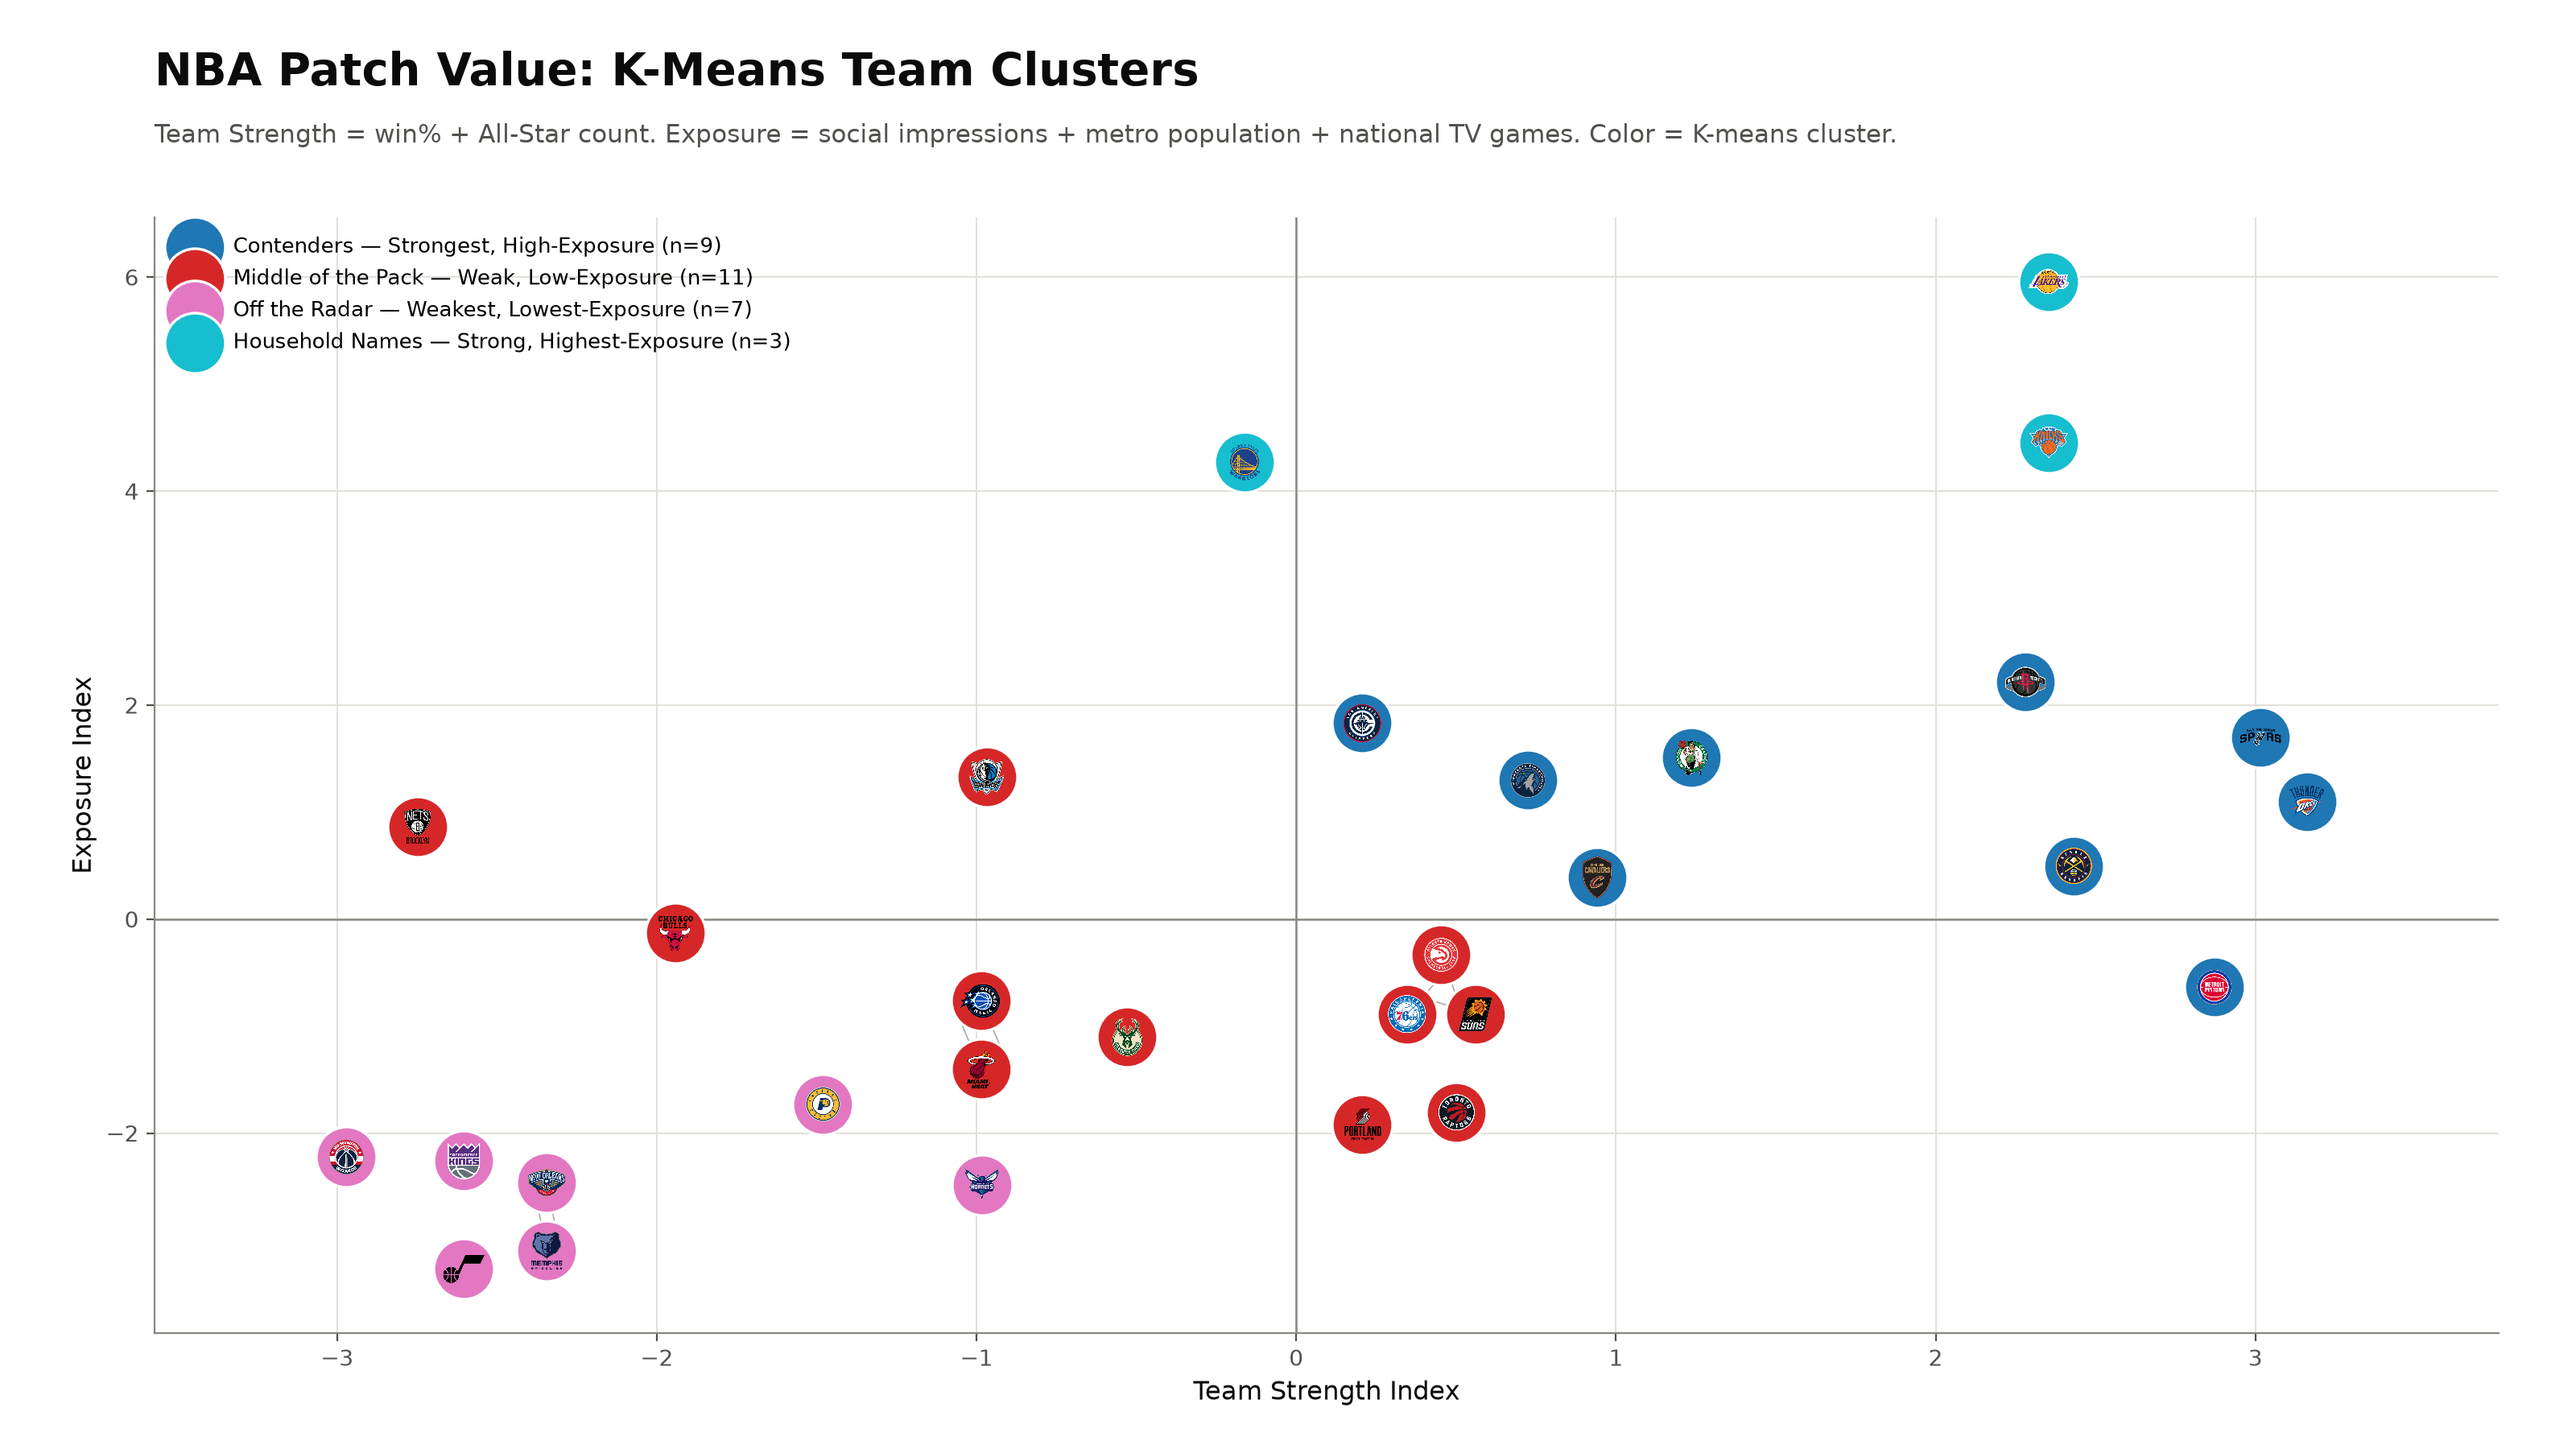
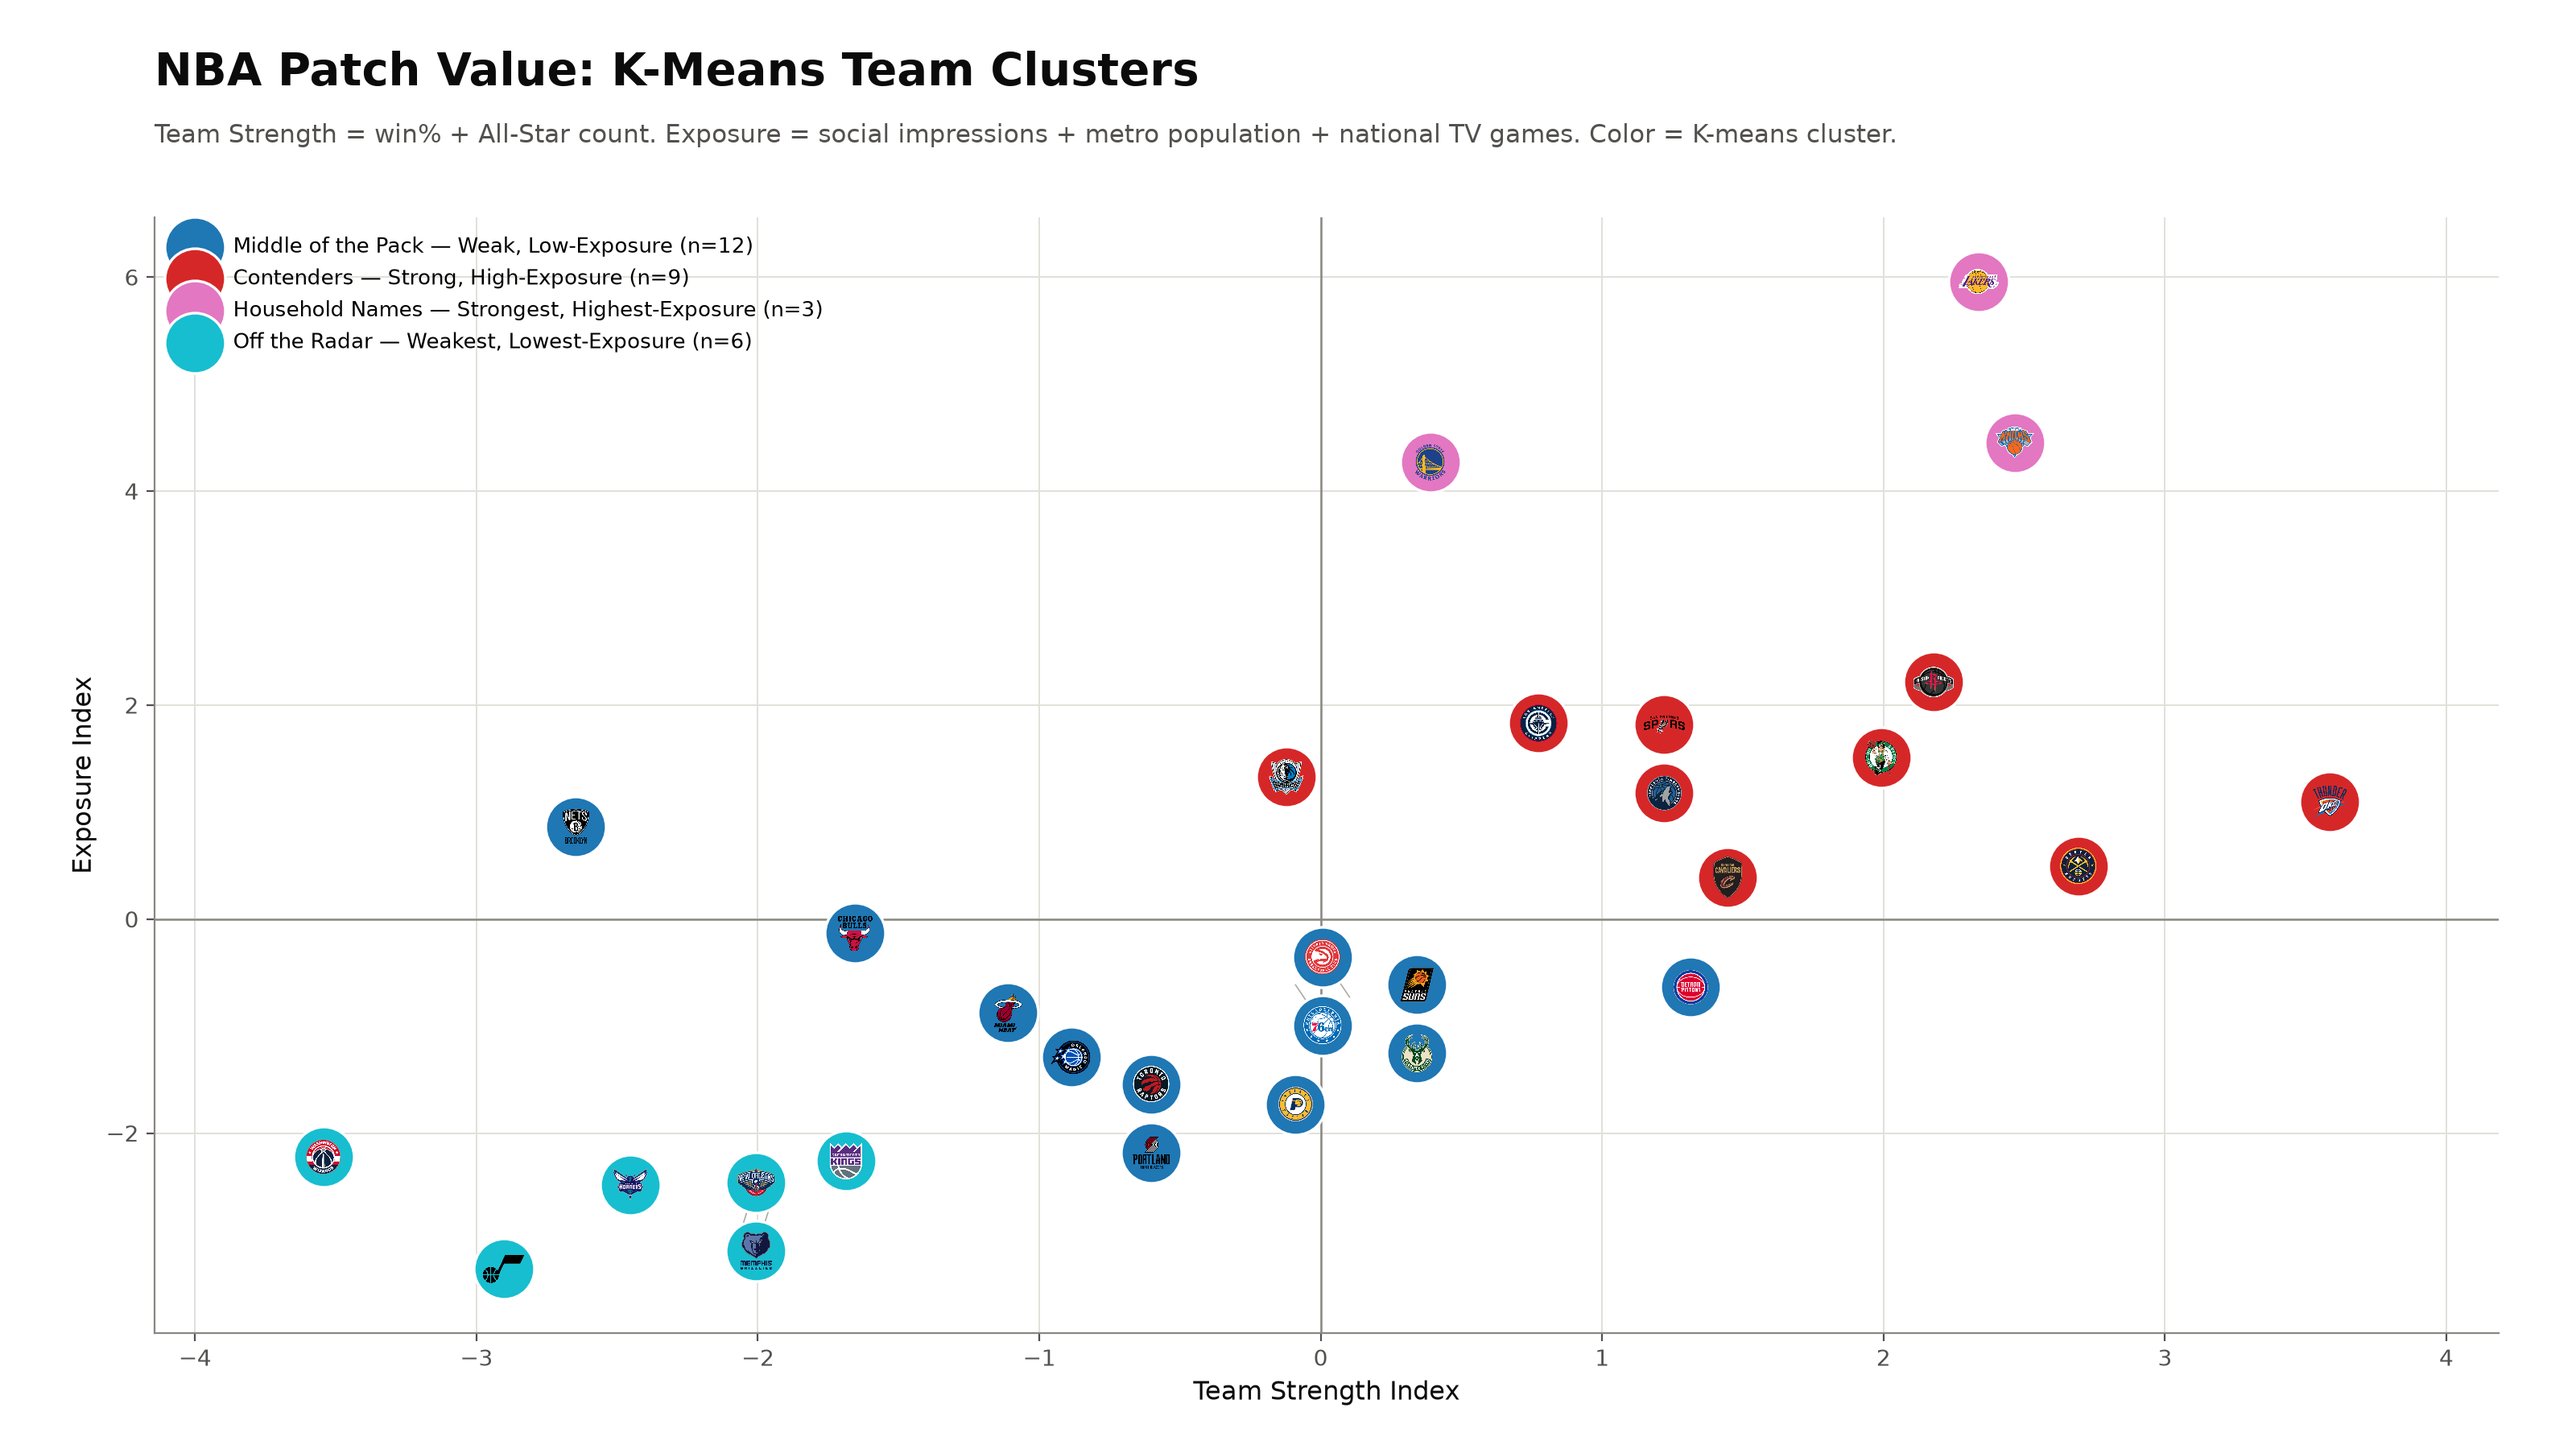
Switch Team Strength to 3-season average win%
win_pct now averages 2023-24, 2024-25, and 2025-26 instead of using the
single 2025-26 season. The two prior seasons' win-loss records are
transcribed from the attached NBA.com Conference Standings pages and
stored as explicit (W, L) dicts; the 3-year average is computed and
printed in a new Step 0 section for auditability, then overwrites
df["win_pct"] before the rest of the pipeline runs unchanged.

Notable cluster membership changes from this alone: Detroit Pistons
dropped out of the high-strength group (strong 2025-26 record, but weak
2023-24/2024-25 drag the average down to ~0.48), while Dallas Mavericks
moved into it (weaker 2025-26 record offset by two strong prior seasons).

Claude-Session: https://claude.ai/code/session_011dmqRCX3meF8tbZkeR883H

diff --git a/jersey_patch_model/nba_kmeans_metro_pop.py b/jersey_patch_model/nba_kmeans_metro_pop.py
@@ -1,8 +1,10 @@
 """
 NBA jersey patch valuation - K-means clustering v2: metro population swapped
-in for total followers in the Exposure composite.
+in for total followers in the Exposure composite, and win_pct now averaged
+over the last 3 seasons (2023-24, 2024-25, 2025-26) instead of a single
+season.
 
-Team Strength = z(win_pct) + z(all_star_count)
+Team Strength = z(win_pct_3yr_avg) + z(all_star_count)
 Exposure      = z(impressions_millions) + z(metro_pop_millions) + z(national_tv_games)
 """
 
@@ -111,6 +113,39 @@ data = {
     "Washington Wizards":     (0.207, 0, 208,  2,  6.465724),
 }
 
+# ---------------------------------------------------------------------------
+# 3-season win% averaging. win_pct in `data` above is the single-season
+# 2025-26 figure already used in this project; 2023-24 and 2024-25 win-loss
+# records are transcribed from the attached NBA.com Conference Standings
+# pages. All three are averaged below to replace the single-season figure
+# as the Team Strength input, per request.
+# ---------------------------------------------------------------------------
+WIN_LOSS_2023_24 = {
+    "Boston Celtics": (64, 18), "New York Knicks": (50, 32), "Milwaukee Bucks": (49, 33),
+    "Cleveland Cavaliers": (48, 34), "Orlando Magic": (47, 35), "Indiana Pacers": (47, 35),
+    "Philadelphia 76ers": (47, 35), "Miami Heat": (46, 36), "Chicago Bulls": (39, 43),
+    "Atlanta Hawks": (36, 46), "Brooklyn Nets": (32, 50), "Toronto Raptors": (25, 57),
+    "Charlotte Hornets": (21, 61), "Washington Wizards": (15, 67), "Detroit Pistons": (14, 68),
+    "OKC Thunder": (57, 25), "Denver Nuggets": (57, 25), "Minnesota Timberwolves": (56, 26),
+    "LA Clippers": (51, 31), "Dallas Mavericks": (50, 32), "Phoenix Suns": (49, 33),
+    "New Orleans Pelicans": (49, 33), "LA Lakers": (47, 35), "Sacramento Kings": (46, 36),
+    "Golden State Warriors": (46, 36), "Houston Rockets": (41, 41), "Utah Jazz": (31, 51),
+    "Memphis Grizzlies": (27, 55), "San Antonio Spurs": (22, 60), "Portland Trail Blazers": (21, 61),
+}
+WIN_LOSS_2024_25 = {
+    "Cleveland Cavaliers": (64, 18), "Boston Celtics": (61, 21), "New York Knicks": (51, 31),
+    "Indiana Pacers": (50, 32), "Milwaukee Bucks": (48, 34), "Detroit Pistons": (44, 38),
+    "Orlando Magic": (41, 41), "Atlanta Hawks": (40, 42), "Chicago Bulls": (39, 43),
+    "Miami Heat": (37, 45), "Toronto Raptors": (30, 52), "Brooklyn Nets": (26, 56),
+    "Philadelphia 76ers": (24, 58), "Charlotte Hornets": (19, 63), "Washington Wizards": (18, 64),
+    "OKC Thunder": (68, 14), "Houston Rockets": (52, 30), "LA Lakers": (50, 32),
+    "Denver Nuggets": (50, 32), "LA Clippers": (50, 32), "Minnesota Timberwolves": (49, 33),
+    "Golden State Warriors": (48, 34), "Memphis Grizzlies": (48, 34), "Sacramento Kings": (40, 42),
+    "Dallas Mavericks": (39, 43), "Phoenix Suns": (36, 46), "Portland Trail Blazers": (36, 46),
+    "San Antonio Spurs": (34, 48), "New Orleans Pelicans": (21, 61), "Utah Jazz": (17, 65),
+}
+WIN_PCT_2025_26 = {team: vals[0] for team, vals in data.items()}
+
 PREVIOUS_CLUSTERS = {
     "Household Names": ["LA Lakers", "Golden State Warriors"],
     "Contenders": ["Houston Rockets", "San Antonio Spurs", "Boston Celtics", "Cleveland Cavaliers",
@@ -157,6 +192,23 @@ if missing:
 raw_cols = ["win_pct", "all_star_count", "impressions_millions", "national_tv_games", "metro_pop_millions"]
 df = pd.DataFrame.from_dict(data, orient="index", columns=raw_cols)
 df.index.name = "Team"
+
+# Replace the single-season 2025-26 win_pct with a 3-season average.
+section("STEP 0 - 3-season win% averaging")
+win_pct_rows = []
+for team in df.index:
+    w24, l24 = WIN_LOSS_2023_24[team]
+    w25, l25 = WIN_LOSS_2024_25[team]
+    wp24 = w24 / (w24 + l24)
+    wp25 = w25 / (w25 + l25)
+    wp26 = WIN_PCT_2025_26[team]
+    avg = (wp24 + wp25 + wp26) / 3
+    win_pct_rows.append((team, wp24, wp25, wp26, avg))
+
+win_pct_df = pd.DataFrame(win_pct_rows,
+                           columns=["Team", "2023-24", "2024-25", "2025-26", "3yr_avg"]).set_index("Team")
+print(win_pct_df.round(4).to_string())
+df["win_pct"] = win_pct_df["3yr_avg"]
 
 warnings = []
 if df["win_pct"].max() > 1 or df["win_pct"].min() < 0:
